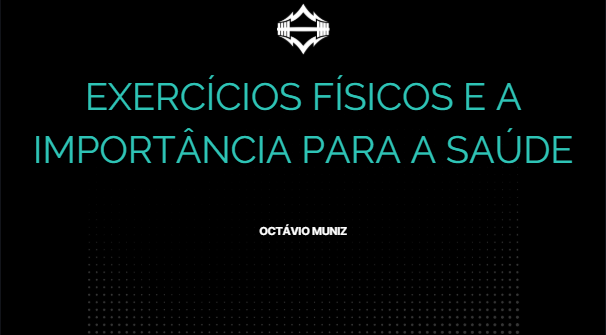
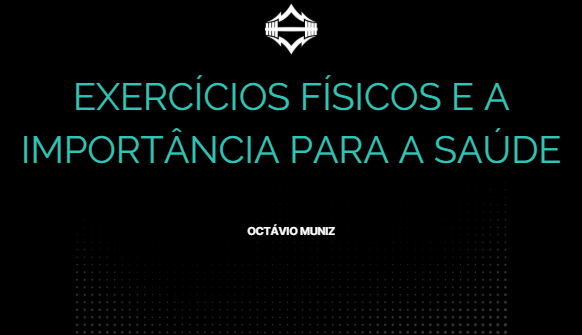
new commit

diff --git a/Indexoc.html b/Indexoc.html
@@ -88,10 +88,10 @@
                                 <!--^^ Projeto > Jogo de História ^^-->
                                 <div class="work__box">
                                     <div class="work__text">
-                                        <h3>Historical Game</h3>
-                                        <span class="tag">History and Technical</span>
+                                        <h3>Project Professional</h3>
+                                        <span class="tag">Technical</span>
                                         <p>
-                                            A text-based game about the history of the world, where you can choose your own path and learn about different historical events.
+                                           I had made a search with peoples in my city about fisical excersises and create a site with ideas to help you.
                                         </p>
                                         <ul class="work__list">
                                             <li>HTML</li>
